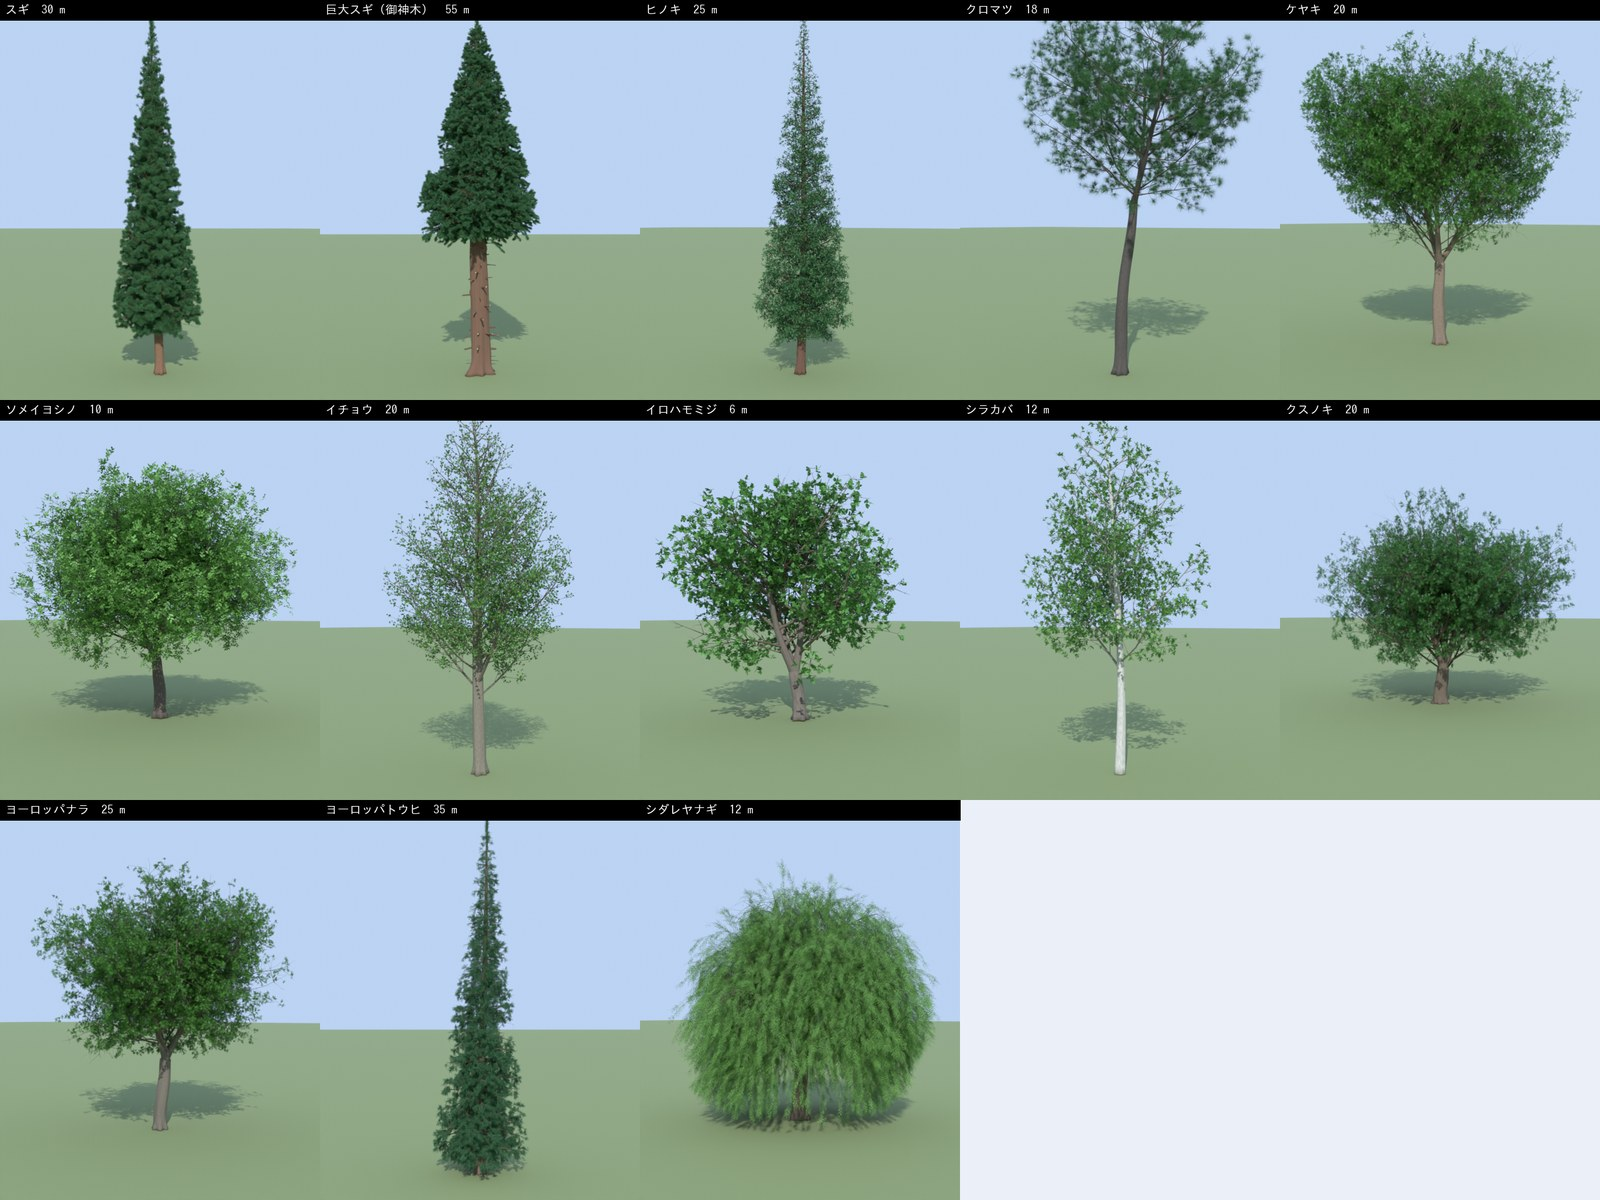
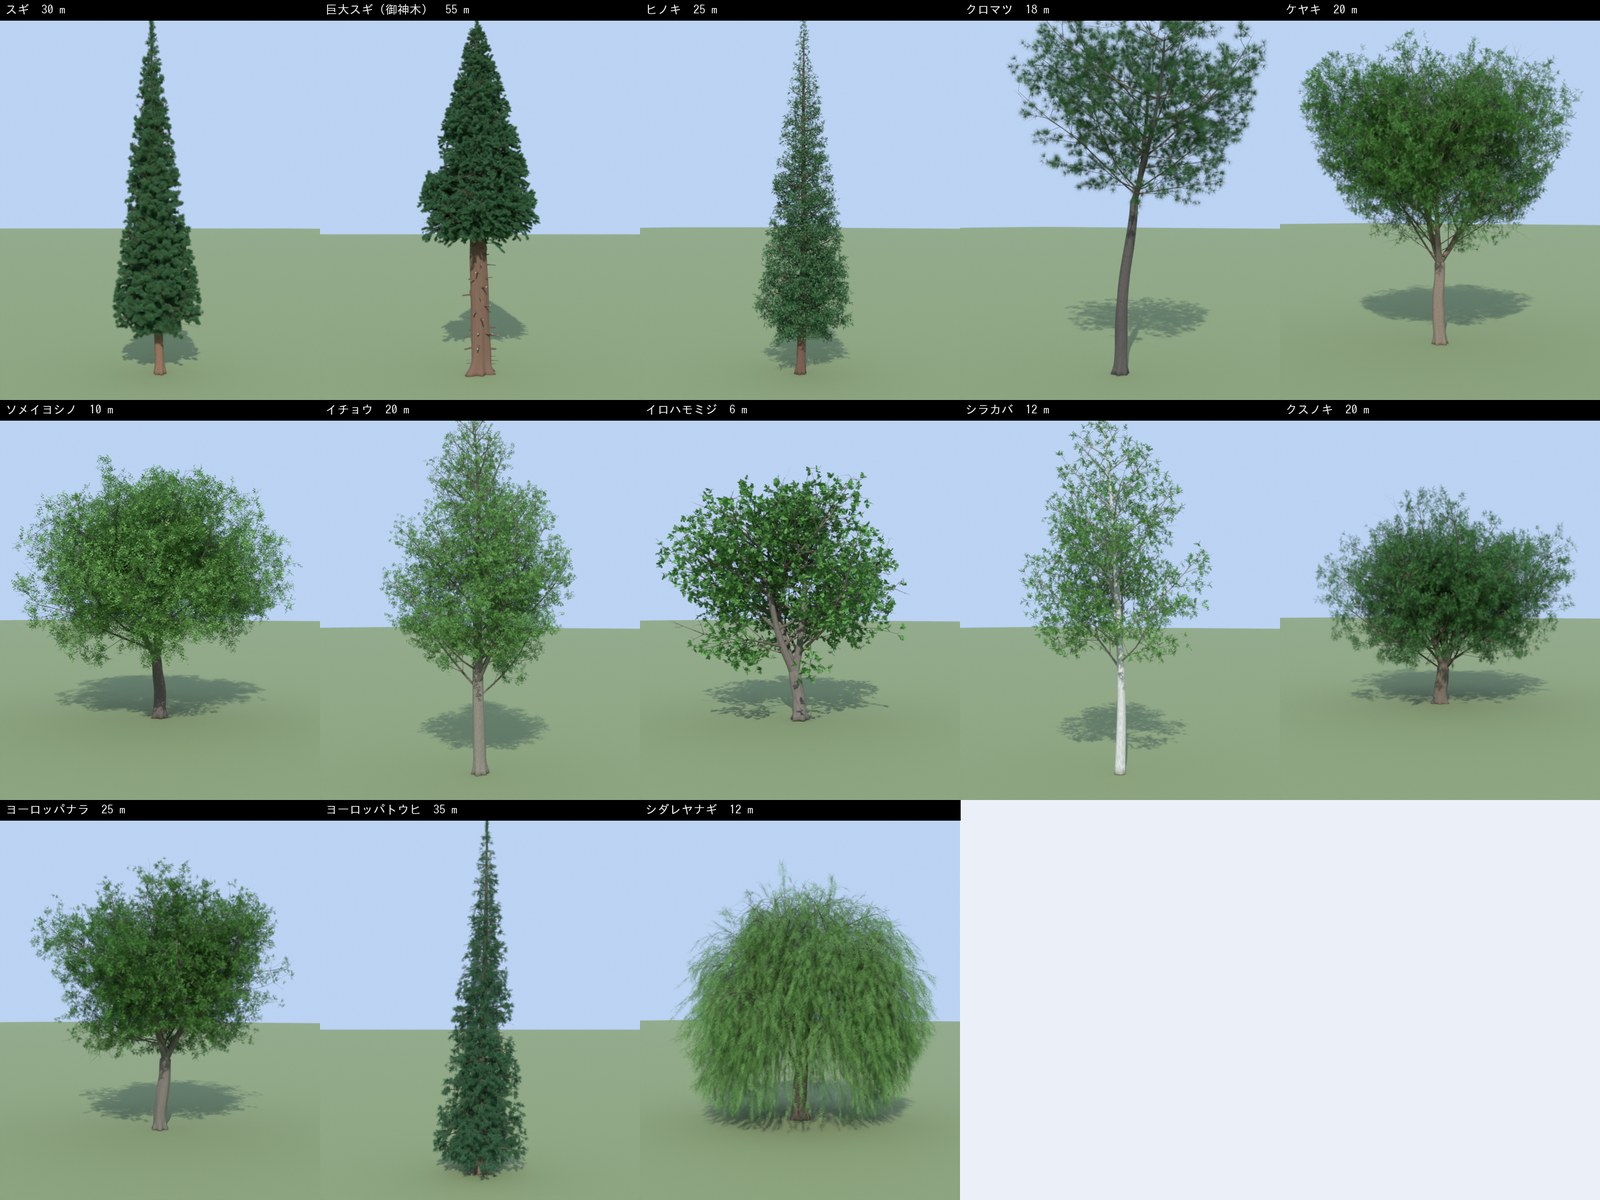
README images and docs after the leaf shape changes; CHANGELOG
Claude-Session: https://claude.ai/code/session_01UEoFLNrQewqU1x7NXQiXxG

diff --git a/docs/PRESET_VALUES.md b/docs/PRESET_VALUES.md
@@ -111,12 +111,12 @@
 | 項目 | 内部名 | スギ | 巨大スギ（御神木） | ヒノキ | クロマツ | ケヤキ | ソメイヨシノ | イチョウ | イロハモミジ | シラカバ | クスノキ | ヨーロッパナラ | ヨーロッパトウヒ | シダレヤナギ |
 |---|---|---|---|---|---|---|---|---|---|---|---|---|---|---|
 | 葉の種類 | `leaf_type` | **針葉(らせん)** | **針葉(らせん)** | **鱗片葉の小枝** | **針葉束** | 広葉 | 広葉 | **扇形(イチョウ)** | 広葉 | 広葉 | 広葉 | 広葉 | **針葉(らせん)** | 広葉 |
-| 葉身長 | `leaf_length_cm` | **1.2** | **1.2** | **8** | **10** | 6 | **10** | **4.5** | **7** | 6 | **9** | **10** | **1.8** | **11** |
+| 葉身長 | `leaf_length_cm` | **1.2** | **1.2** | **8** | **10** | 6 | **9** | **8** | **7** | 6 | **9** | **10** | **1.8** | **11** |
 | 幅/長さ | `leaf_width_ratio` | 0.45 | 0.45 | **0.5** | 0.45 | 0.45 | **0.5** | 0.45 | **1** | **0.8** | **0.4** | **0.5** | 0.45 | **0.12** |
-| 葉の密度 | `leaves_per_m` | **70** | **30** | **45** | **30** | **90** | **14** | **24** | **36** | **42** | **90** | **70** | **120** | **35** |
+| 葉の密度 | `leaves_per_m` | **70** | **30** | **45** | **30** | **90** | **30** | **28** | **36** | **42** | **90** | **70** | **120** | **20** |
 | 針葉束の本数 | `fascicle_count` | 2 | 2 | 2 | 2 | 2 | 2 | 2 | 2 | 2 | 2 | 2 | 2 | 2 |
-| 葉のまとまり | `leaf_cluster` | **5** | **7** | 1 | **10** | **5** | **4** | **5** | **4** | **5** | **5** | **4** | 1 | **6** |
-| 葉の拡大率 | `leaf_scale` | **4** | **5.5** | **2.4** | **3** | 1 | **1.6** | 1 | 1 | 1 | 1 | 1 | **4** | 1 |
+| 葉のまとまり | `leaf_cluster` | **5** | **7** | 1 | **10** | **5** | **4** | **3** | **4** | **5** | **5** | **4** | 1 | **6** |
+| 葉の拡大率 | `leaf_scale` | **4** | **5.5** | **2.4** | **3** | 1 | **1.2** | 1 | 1 | 1 | 1 | 1 | **4** | 1 |
 | 葉の量 | `foliage_amount` | **2** | **3** | 1 | 1 | 1 | 1 | 1 | 1 | 1 | 1 | 1 | 1 | 1 |
 | 葉を付ける枝 | `leaf_reach` | 自動 | **さらに手前の枝の外側まで** | **さらに手前の枝の外側まで** | 自動 | 自動 | 自動 | 自動 | 自動 | 自動 | 自動 | 自動 | **さらに手前の枝の外側まで** | 自動 |
 | 葉の付き始め | `leaf_start` | -1 | **0.05** | -1 | -1 | -1 | -1 | -1 | -1 | -1 | -1 | -1 | -1 | -1 |

diff --git a/CHANGELOG.md b/CHANGELOG.md
@@ -2,7 +2,7 @@
 
 ## 0.1.0（安定版 stable）
 
-最初のリリース。zip のバージョンは `0.1.0+stable`（デバッグ中のビルドは `0.1.0+dev.<コミット数>.<コミット>`）。Blender 5.1.0 以降（`blender_version_max = "5.3.0"`）。5.1.2 と 5.2.2 LTS で確認（単体テスト 237 件、Blender 結合テスト 36 件 × 2 バージョン、デバッグ掃引 117 本で FAIL 0）。
+最初のリリース。zip のバージョンは `0.1.0+stable`（デバッグ中のビルドは `0.1.0+dev.<コミット数>.<コミット>`）。Blender 5.1.0 以降（`blender_version_max = "5.3.0"`）。5.1.2 と 5.2.2 LTS で確認（単体テスト 239 件、Blender 結合テスト 36 件 × 2 バージョン、デバッグ掃引 117 本で FAIL 0）。
 
 ### 機能
 
@@ -37,6 +37,7 @@
 - シダレヤナギが丸い塊で、枝垂れに見えなかった → 細枝を長く真下へ垂らし、細長い葉を小枝に沿って並べて、縦の筋の暖簾にした。
 - 細い枝が針金のように宙に垂れる → 垂れ下がる折れ枝は折れ口の半径 1.2 cm 以上だけ。クロマツは幹が中ほどで 2 本に分かれる傘形に、ナラは太く曲がる大枝を少なめに、シラカバは根張りと枝の色を控えめに、巨大スギは枝痕を増やした。
 - 樹冠の下まで垂れ下がった枯れ枝（L2 以降）が針金のように見えた → 地面から樹高の 8%（最低 1 m）より下は切る（枝垂れは対象外）。折れ口の淡い色は、短い区間（15 cm 以下）だけに塗る。
+- ソメイヨシノの葉がカエデに見えた（4 枚の葉が 1 点から放射状に開き、葉も 16 cm と大きかった）、イチョウの葉が付け根から直接開いた「パックマン」形だった → 広葉の房を細い軸に沿って左右交互に付ける並びにし（幅広の丸い葉のカエデは従来どおり）、卵形の葉に。イチョウは葉柄・くさび形の付け根・浅い切れ込みの扇形で、大きさも実物に（長さ 8 cm、3 枚の房）。ソメイヨシノの葉は約 11 cm に。
 - zip のバージョンで安定版とデバッグ版を区別（安定版 `+stable` / デバッグ版 `+dev.<コミット数>.<コミット>`。`tools/build_zip.py --release`）。
 
 ### 既知の制限
